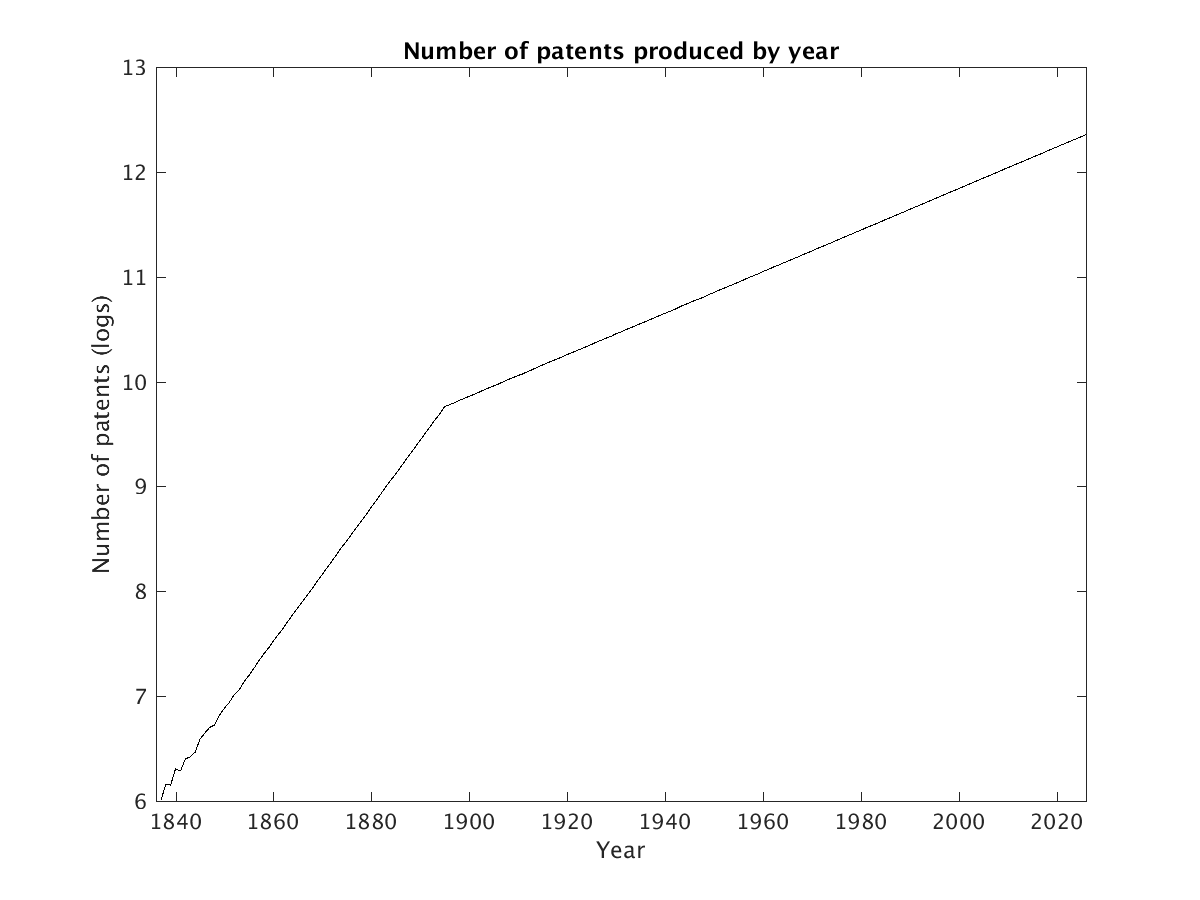
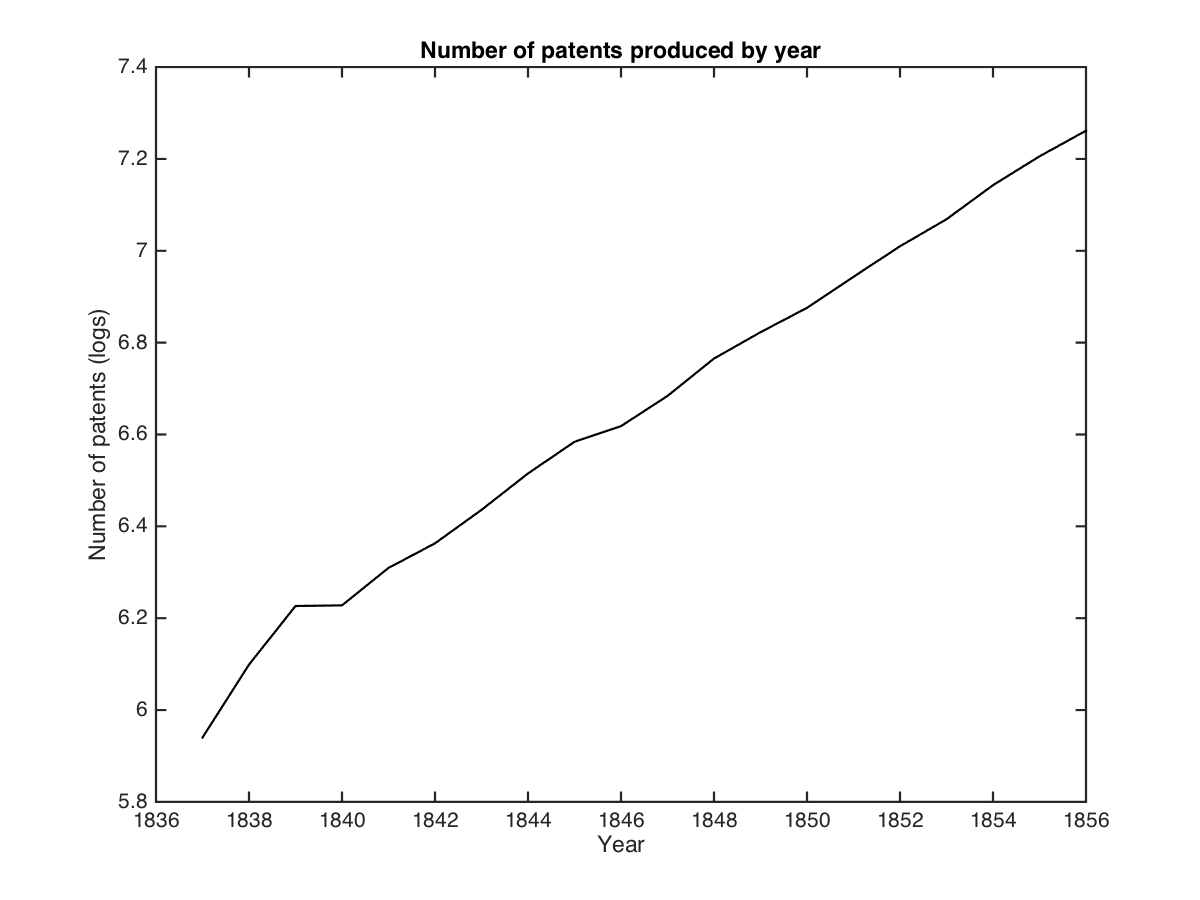
fixed bug

diff --git a/simulations/consolidated/run_simulation.m b/simulations/consolidated/run_simulation.m
@@ -2,7 +2,7 @@ clear
 close all
 clc
 
-%cd('/Users/alexandresollaci/Documents/UChicago/RA/Combinatorial growth/combinatorial_growth/simulations/consolidated/')
+cd('/Users/alexandresollaci/Documents/UChicago/RA/Combinatorial growth/combinatorial_growth/simulations/consolidated/')
 
 rng(10)
 
@@ -30,7 +30,7 @@ params = v2struct(etaH, etaM, etaL, tau, phi, lambda, kappa, xi, zeta, gamma, ep
 
 beg_inv = exp(6);       % number of inventors, chosen to match initial number of patents
 beg_year = 1836;        % beginning year
-Tbase = 10;            % number of periods to run baseline simulation
+Tbase = 180;            % number of periods to run baseline simulation
 Tsubs = 10;             % number of periods to run subsidy simulation
 Tmax = Tbase + Tsubs;
 
@@ -54,6 +54,10 @@ patmat1 = zeros(Tsubs,4);
 % state of product line: 1-new tech 2-recomb 3-reuse
 state0 = zeros(1,M0);
 state0(1:M0) = 1;
+
+% initial quality of product lines (= 1)
+nroffirms = round(nu*beg_inv); 
+quality0 = ones(nroffirms,1);
 
 % Simulate Model
 
@@ -85,7 +89,7 @@ welfare_subs = zeros(2, num_simul, length(subsidy));
 
 for s = 1:num_simul
     seed1 = 1000*rand;
-    model_plain = simulate_model(params, Tbase, beg_year, beg_inv, Mmat0, patmat0, state0, [0 0], seed1);
+    model_plain = simulate_model(params, Tbase, beg_year, beg_inv, Mmat0, patmat0, state0, quality0, [0 0], seed1);
 
     Mmat = model_plain.Mmat;
     state = model_plain.state;
@@ -94,7 +98,7 @@ for s = 1:num_simul
 
     seed2 = 1000*rand;
     
-    model_subs_0 = simulate_model(params, Tsubs, beg_year+Tbase, nrofinv, Mmat, patmat1, state, [0 0], seed2);
+    model_subs_0 = simulate_model(params, Tsubs, beg_year+Tbase, nrofinv, Mmat, patmat1, state, quality, [0 0], seed2);
 
     % In period 0, all ideas are new.
     patmat(:, :, s) = [[beg_year, 1, 0, 0]; model_plain.patmat; model_subs_0.patmat];
@@ -109,7 +113,7 @@ for s = 1:num_simul
 
     for v = 1:length(subsidy)
 
-        model_subs_1 = simulate_model(params, Tsubs, beg_year+Tbase, nrofinv, Mmat, patmat1, state, subsidy(v,:), seed2);
+        model_subs_1 = simulate_model(params, Tsubs, beg_year+Tbase, nrofinv, Mmat, patmat1, state, quality, subsidy(v,:), seed2);
 
         patmat_subs(:,:,s,v) = [[beg_year, 1, 0, 0]; model_plain.patmat; model_subs_1.patmat];
         nrofpatents_subs(:,s,v) = [model_plain.nrofpatents; model_subs_1.nrofpatents];

diff --git a/simulations/consolidated/simulate_model.m b/simulations/consolidated/simulate_model.m
@@ -1,4 +1,4 @@
-function outputs = simulate_model(params, nrofperiods, beg_year, beg_inv, summary_matrix, patent_matrix, tech_state, subsidy, seed)
+function outputs = simulate_model(params, nrofperiods, beg_year, beg_inv, summary_matrix, patent_matrix, tech_state, prod_quality, subsidy, seed)
 
     % turn on just in time compilation (makes for loops faster)
     feature accel on 
@@ -33,13 +33,13 @@ function outputs = simulate_model(params, nrofperiods, beg_year, beg_inv, summar
     Mmat = summary_matrix;
     patmat = patent_matrix;
     state = tech_state;
+    quality = prod_quality;
 
     subsidyNT = subsidy(1);
     subsidyNC = subsidy(2);
 
     blocksize = 5000; % preallocate space for matrices
 
-    quality = ones(nroffirms,1); % initial quality of patents = 1
     nrofpatents = zeros(Tmax, 1);
     growth = zeros(Tmax, 1);
     GDP = zeros(Tmax, 1);
